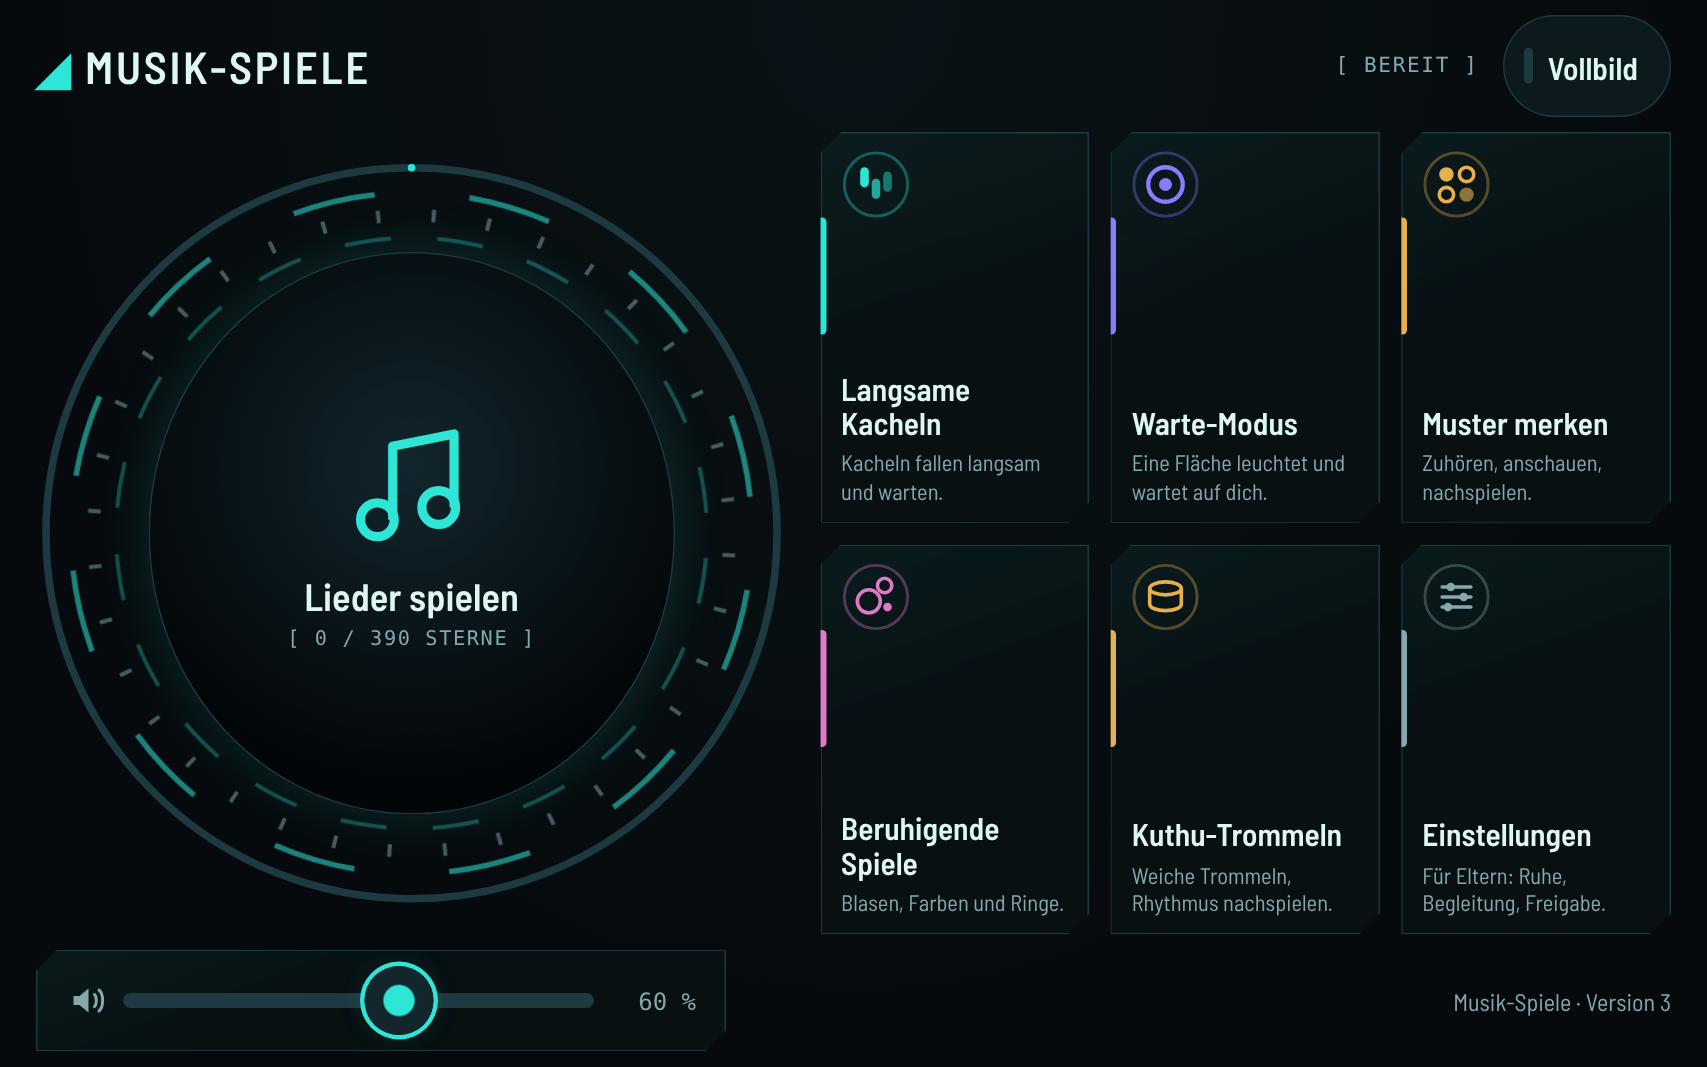
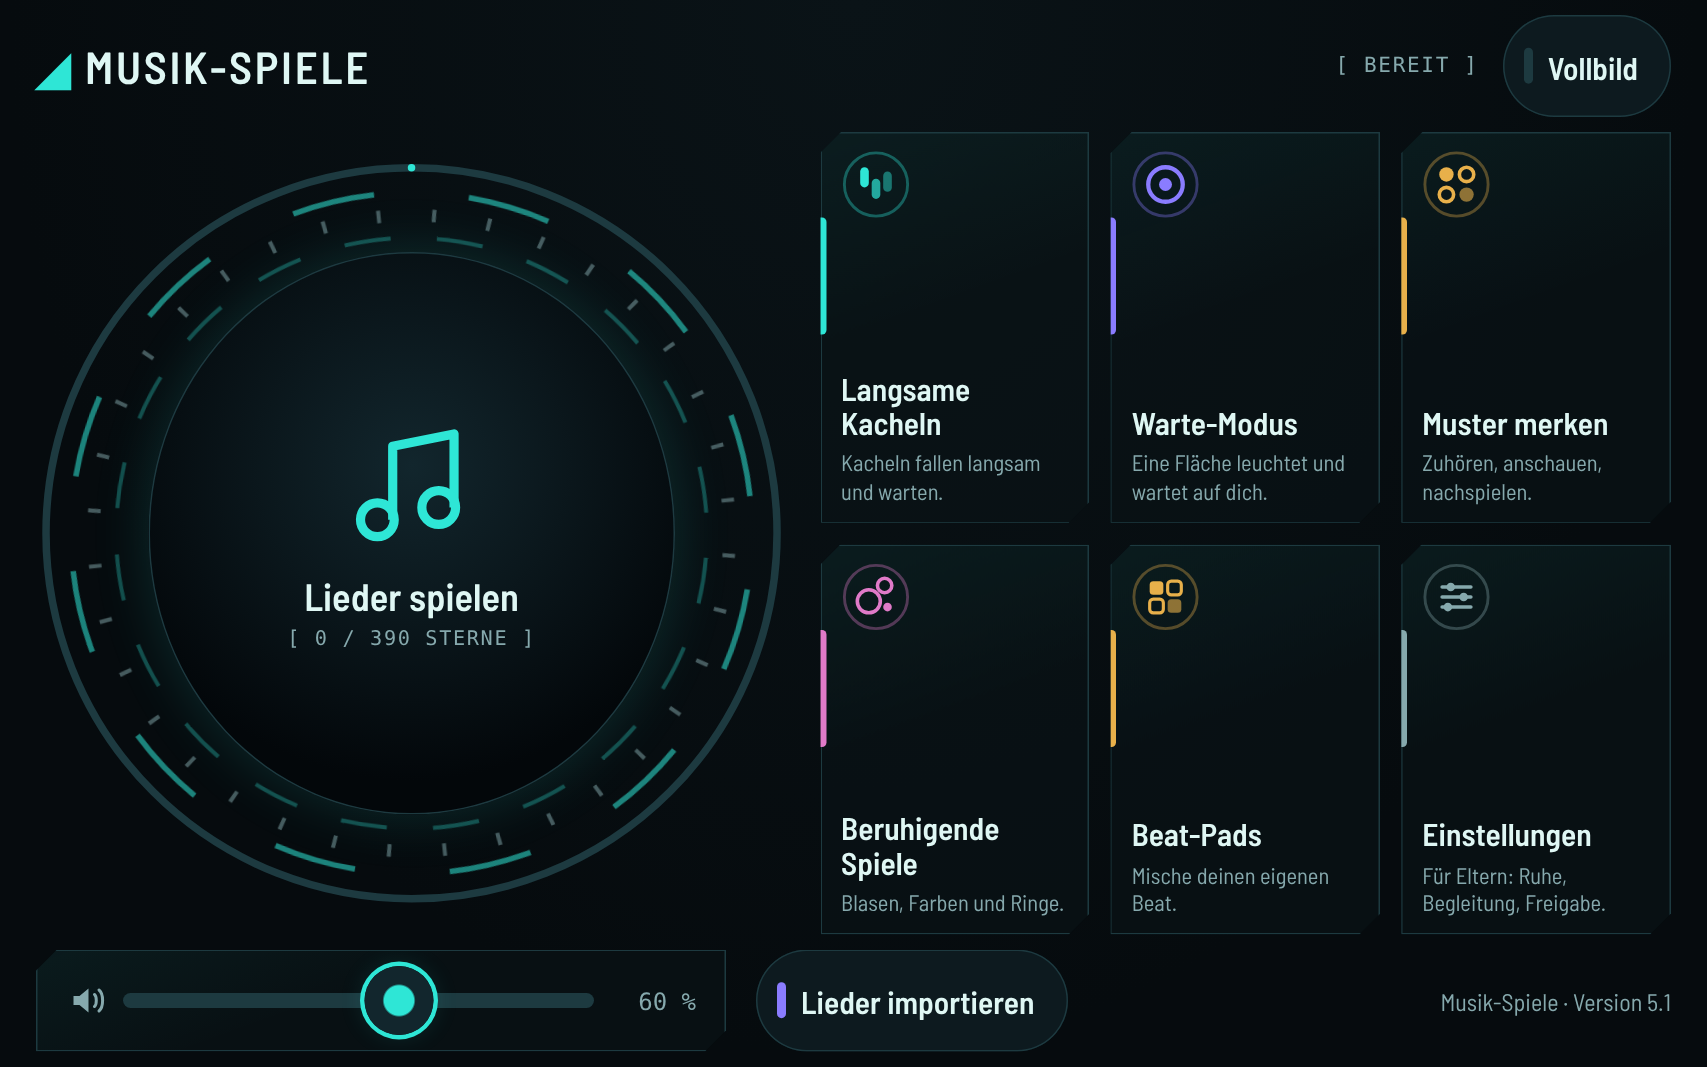
Version 5.1: Beat-Pads mit leiser Sofort-Bestaetigung, neue Screenshots
- Beat-Pads: sofortige leise Bestaetigungsnote (-6 dB unter der lautesten Note des Pads), Stimmen werden beim Ausschalten sauber freigegeben
- Rock/Gitarre: Melodie-Anfang geaendert
- README: Version 5.1, 8 neue Screenshots

Claude-Session: https://claude.ai/code/session_016cLZaLJ4h45vDpU3ckL9uq

diff --git a/app/src/main/assets/index.html b/app/src/main/assets/index.html
@@ -1,7 +1,7 @@
 <!DOCTYPE html>
 <!--
   ================================================================
-   Krishnas Spiele  -  Version 5   @ Joschy  (130 eingebaute Lieder in 7 Kategorien)
+   Krishnas Spiele  -  Version 5.1   @ Joschy  (130 eingebaute Lieder in 7 Kategorien)
    Ruhige Musik-Spiele fuer Krishna (Samsung Galaxy Tab S5e, Android-WebView,
    Querformat, Touch). Eine einzige Datei, keine externen Ressourcen,
    kein Netzzugriff, laeuft komplett offline.
@@ -523,7 +523,7 @@ canvas{display:block;width:100%;height:100%;touch-action:none}
       <div class="slider-row"><span class="sym" data-ico="vol"></span><input type="range" class="vol" min="0" max="100" step="1" aria-label="Lautstärke"><span class="val vol-val"></span></div>
     </div>
     <button class="pille" id="importMenuBtn" type="button" style="--mark:var(--spur2)">Lieder importieren</button>
-    <footer>Krishnas Spiele &middot; Version 5 &middot; gebaut @ Joschy</footer>
+    <footer>Krishnas Spiele &middot; Version 5.1 &middot; gebaut @ Joschy</footer>
   </div>
 </section>
 
@@ -680,7 +680,7 @@ canvas{display:block;width:100%;height:100%;touch-action:none}
 <svg width="0" height="0" style="position:absolute" aria-hidden="true"><symbol id="sternSym" viewBox="0 0 24 24"><path d="M12 2.6l2.85 5.95 6.55.8-4.8 4.5 1.25 6.5L12 17.2l-5.85 3.15 1.25-6.5-4.8-4.5 6.55-.8z" stroke-width="1.6" stroke-linejoin="round"/></symbol></svg>
 
 <script>
-/* Krishnas Spiele @ Joschy - Version 5 */
+/* Krishnas Spiele @ Joschy - Version 5.1 */
 'use strict';
 
 /* LIEDER-START
@@ -3039,11 +3039,12 @@ const Calm = (() => {
    Die Klang-Bausteine laufen mit jedem AudioContext/OfflineAudioContext.
    ================================================================ */
 const BEAT_ATT = 0.015;          /* weichster Einsatz einer Note (s) */
-const BEAT_MAX_STIMMEN = 24;     /* Obergrenze gleichzeitiger Stimmen */
+const BEAT_MAX_STIMMEN = 28;     /* Obergrenze gleichzeitig klingender Stimmen (gemessen: 24 reichte bei 200 % nicht ganz) */
 const BEAT_EIN = 0.03;           /* Einblenden beim Antippen (s) */
 const BEAT_AUS = 0.04;           /* Ausblenden beim zweiten Tipp (s) */
 const BEAT_VORLAUF = 0.1;        /* Look-ahead des Schedulers (s) */
 const BEAT_TAKT_MS = 25;         /* Scheduler-Intervall (ms) */
+const BEAT_BESTAETIGUNG = 0.4;   /* laengere Wartezeit bis zur ersten Note: sofort eine leise Bestaetigungsnote (s) */
 
 /* Rauschen, fest geseedet (gleiches Ergebnis bei jedem Start) */
 const beatRauschPuffer = new WeakMap();
@@ -3119,16 +3120,28 @@ function beatStimme(eng, t, dauer) {
       lg.gain.setValueAtTime(0, t); lg.gain.linearRampToValueAtTime(f * tiefe, t + (verz || 0.2));
       l.connect(lg); lg.connect(o.frequency);
     },
-    los(aus, ziel) {
+    /* sitz: Pad-Sitzung; ihre Stimmen werden beim Ausschalten sofort freigegeben */
+    los(aus, ziel, sitz) {
       aus.connect(ziel);
       eng.knoten += nodes.length; eng.stimmen++;
-      let fertig = false;
+      let fertig = false, frei = false;
       const aufraeumen = () => {
         if (fertig) return; fertig = true;
         nodes.forEach(n => { try { n.disconnect(); } catch (e) {} });
-        eng.knoten -= nodes.length; eng.stimmen--;
+        eng.knoten -= nodes.length;
+        if (!frei) { frei = true; eng.stimmen--; }
+        if (sitz) sitz.stimmen.delete(v);
+        eng.alle.delete(v);
+      };
+      /* Freigabe: der Sitzungs-Regler blendet schon aus; danach Quellen stoppen, Slot sofort frei */
+      v.freigeben = tStop => {
+        if (fertig || frei) return;
+        frei = true; eng.stimmen--; eng.alle.delete(v);
+        srcs.forEach(s => { try { s.stop(Math.max(tStop, c.currentTime)); } catch (e) {} });
       };
       srcs.forEach(s => { s.start(t); s.stop(tEnd + 0.01); });
+      if (sitz) sitz.stimmen.add(v);
+      eng.alle.add(v);
       if (srcs.length) srcs[0].onended = aufraeumen; else aufraeumen();
     }
   };
@@ -3321,10 +3334,10 @@ const BEAT_STILE = [
     { n: 'Laufbass', g: 'bass', k: 'zupfbass', o: -2, b: 'X..F..X.O..F..x.' },
     { n: 'Harmonium', g: 'akkord', k: 'harmonium', o: -1, a: '..X_..X_..X_..X_' },
     { n: 'Bordun', g: 'akkord', k: 'flaeche', o: -1, a: 'X_______________' },
-    { n: 'Nadaswaram', g: 'melodie', k: 'nadaswaram', o: 0, t: '0:4:3 3:5:1 4:4:2 6:2:2 8:3:4 12:2:2 14:1:2 16:0:6 22:1:2 24:2:4 28:4:4' },
+    { n: 'Nadaswaram', g: 'melodie', k: 'nadaswaram', o: 0, t: '0:0:2 2:2:2 4:3:1 5:4:3 8:7:2 10:5:2 12:4:4 16:3:2 18:4:2 20:2:4 24:3:3 27:1:1 28:0:4' },
     { n: 'Flöte', g: 'melodie', k: 'floete', o: 1, t: '0:0:2 2:-1:2 4:0:4 8:2:2 10:1:2 12:0:4 16:-1:2 18:-2:2 20:-3:4 24:-2:2 26:-1:2 28:0:4' },
     { n: 'Glöckchen', g: 'melodie', k: 'glocke', o: 1, t: '0:7:2 3:9:1 6:11:2 10:9:2 12:7:4' },
-    { n: 'Echo', g: 'effekt', k: 'glocke', o: 1, t: '0:4:2 32:2:2', echo: 3, L: 64 }
+    { n: 'Echo', g: 'effekt', k: 'glocke', o: 1, t: '0:4:2 16:2:2:5 32:2:2 48:0:2:5', echo: 3, L: 64 }
   ] },
   { id: 'pop', name: 'Pop', bpm: 108, wurzel: 62, leiter: DUR, prog: [0, 2, 5, 3], form: [0, 2, 4], pads: [
     { n: 'Trommel', g: 'rhythmus', k: 'kick', m: 'X.....X.X.......' },
@@ -3335,10 +3348,10 @@ const BEAT_STILE = [
     { n: 'Laufbass', g: 'bass', k: 'zupfbass', o: -2, b: 'X.X.F.O.X.X.T.F.' },
     { n: 'Akkord', g: 'akkord', k: 'keys', o: -1, a: 'X_..X_..X_..X_..' },
     { n: 'Fläche', g: 'akkord', k: 'flaeche', o: -1, a: 'X_______________' },
-    { n: 'Melodie', g: 'melodie', k: 'zupf', o: 0, t: '0:4:2 2:4:1 3:5:1 4:4:2 6:2:2 8:3:3 11:2:1 12:1:4 16:2:2 18:2:1 19:3:1 20:2:2 22:0:2 24:1:6' },
+    { n: 'Melodie', g: 'melodie', k: 'zupf', o: 0, t: '0:2:2 2:4:2 4:3:1 5:2:1 6:4:2 8:5:3 11:4:1 12:2:4 16:1:2 18:2:1 19:3:1 20:1:2 22:0:2 24:1:6' },
     { n: 'Kette', g: 'melodie', k: 'marimba', o: 0, rel: true, t: '0:0:1 2:2:1 4:4:1 6:7:1 8:4:1 10:2:1 12:4:1 14:2:1' },
-    { n: 'Glocke', g: 'melodie', k: 'glocke', o: 0, t: '0:9:4 8:7:4 16:8:6 24:6:4' },
-    { n: 'Funkeln', g: 'effekt', k: 'glocke', o: 1, t: '4:11:2:5 14:9:2:4 36:12:2:5 46:10:2:4', L: 64 }
+    { n: 'Glocke', g: 'melodie', k: 'glocke', o: 0, t: '0:9:4 8:8:4 16:6:6 24:7:4' },
+    { n: 'Funkeln', g: 'effekt', k: 'glocke', o: 1, t: '4:11:2:5 14:9:2:4 24:10:2:4 36:12:2:5 46:10:2:4 56:9:2:4', L: 64 }
   ] },
   { id: 'elektro', name: 'Elektro', bpm: 120, wurzel: 57, leiter: MOLL, prog: [0, 3, 5, 4], form: [0, 2, 4], pads: [
     { n: 'Trommel', g: 'rhythmus', k: 'kick', P: { f0: 110, f1: 45 }, m: 'X...X...X...X...' },
@@ -3366,18 +3379,18 @@ const BEAT_STILE = [
     { n: 'Klavier', g: 'melodie', k: 'keys', o: 0, t: '0:7:3 3:6:1 4:4:4 10:5:2 12:4:4 16:2:3 19:3:1 20:4:6 28:2:4' },
     { n: 'Vibrafon', g: 'melodie', k: 'vibes', o: 0, rel: true, t: '2:4:2 6:6:2 10:7:2 14:6:2' },
     { n: 'Pfeifen', g: 'melodie', k: 'pfeife', o: 1, t: '0:2:8 8:0:4 12:1:4 16:0:12 28:-3:4' },
-    { n: 'Echo', g: 'effekt', k: 'glocke', o: 1, t: '0:4:2 32:6:2', echo: 3, L: 64 }
+    { n: 'Echo', g: 'effekt', k: 'glocke', o: 1, t: '0:4:2 16:5:2:5 32:6:2 48:4:2:5', echo: 3, L: 64 }
   ] },
   { id: 'rock', name: 'Rock', bpm: 112, wurzel: 52, leiter: MOLL, prog: [0, 6, 5, 6], form: [0, 2, 4], pads: [
     { n: 'Trommel', g: 'rhythmus', k: 'kick', P: { f0: 120, f1: 52 }, m: 'X.......X.X.....' },
     { n: 'Snare', g: 'rhythmus', k: 'snare', m: '....X.......X...' },
     { n: 'Becken', g: 'rhythmus', k: 'becken', m: 'x.o.x.o.x.o.x.o.' },
-    { n: 'Tom', g: 'rhythmus', k: 'tom', P: { f0: 170, f1: 110, dec: 0.3, nf: 700, na: 0.08 }, m: '................' + '............xxXo' },
+    { n: 'Tom', g: 'rhythmus', k: 'tom', P: { f0: 170, f1: 110, dec: 0.3, nf: 700, na: 0.08 }, m: '........o.......' + '....o.......xxXo' },
     { n: 'Tiefbass', g: 'bass', k: 'sub', o: -2, b: 'X_X_X_X_X_X_X_X_' },
     { n: 'Laufbass', g: 'bass', k: 'sagebass', o: -2, b: 'X...X.F.O...X.F.' },
     { n: 'Power', g: 'akkord', k: 'power', o: -1, form: [0, 4, 7], a: 'X_______X___X___' },
     { n: 'Orgel', g: 'akkord', k: 'orgel', o: -1, a: 'X_______________' },
-    { n: 'Gitarre', g: 'melodie', k: 'gitarre', o: 0, t: '0:4:2 2:6:2 4:7:4 8:6:2 10:4:2 12:3:4 16:4:6 22:3:2 24:2:4 28:1:4' },
+    { n: 'Gitarre', g: 'melodie', k: 'gitarre', o: 0, t: '0:4:3 3:6:1 4:2:4 8:6:2 10:4:2 12:3:4 16:4:6 22:3:2 24:2:4 28:1:4' },
     { n: 'Riff', g: 'melodie', k: 'zupf', o: -1, t: '0:0:2 3:2:1 4:4:2 6:3:2 8:2:2 11:0:1 12:1:2 14:-1:2' },
     { n: 'Hoch', g: 'melodie', k: 'quadrat', o: 1, t: '8:2:4 12:1:4 24:4:4 28:2:4' },
     { n: 'Rauschen', g: 'effekt', k: 'wind', o: 0, t: '0:0:64', L: 64 }
@@ -3419,7 +3432,7 @@ const BEAT_STILE = [
     { n: 'Zupfbass', g: 'bass', k: 'zupfbass', o: -2, b: 'X..O..F.X..F..O.' },
     { n: 'Akkord', g: 'akkord', k: 'streicher', o: -1, a: 'X__.X__.X__.X__.' },
     { n: 'Streicher', g: 'akkord', k: 'streicher', o: -1, a: 'X_______________' },
-    { n: 'Horn', g: 'melodie', k: 'horn', o: 0, t: '0:4:6 6:5:2 8:4:4 12:2:4 16:0:8 24:1:4 28:2:4' },
+    { n: 'Horn', g: 'melodie', k: 'horn', o: 0, t: '0:4:6 6:2:2 8:3:4 12:5:4 16:4:8 24:1:4 28:2:4' },
     { n: 'Harfe', g: 'melodie', k: 'harfe', o: 0, rel: true, t: '0:0:1 2:2:1 4:4:1 6:7:1 8:9:1 10:7:1 12:4:1 14:2:1' },
     { n: 'Celesta', g: 'melodie', k: 'glocke', o: 1, t: '0:0:4 4:2:4 8:4:8 16:3:4 20:2:4 24:1:8', L: 32 },
     { n: 'Wind', g: 'effekt', k: 'wind', o: 0, t: '0:0:64', L: 64 }
@@ -3489,18 +3502,20 @@ BEAT_STILE.forEach(st => {
 /* ---------- Der Takt-Motor (Master-Clock + Look-ahead-Scheduler) ----------
    opt.bpm(): aktuelles Tempo, opt.stil(): aktueller Stil, opt.ohneTimer: Scheduler wird von aussen getrieben */
 function BeatEngine(ctx, ziel, opt) {
-  const eng = { ctx, knoten: 0, stimmen: 0, geplantGesamt: 0, uebersprungen: 0, letzterTipp: null };
+  const eng = { ctx, knoten: 0, stimmen: 0, geplantGesamt: 0, uebersprungen: 0, letzterTipp: null, alle: new Set() };
+  /* Stimmen, die zum Zeitpunkt t wirklich klingen (freigegebene zaehlen nicht) */
+  const klingendBei = t => { let n = 0; eng.alle.forEach(v => { if (v.t <= t + 0.002 && v.tEnd > t) n++; }); return n; };
   const aktiv = new Map();   /* Pad-Index -> { g: GainNode } */
   let schritt = 0, naechste = 0, timer = 0, laeuft = false, geplant = [], messPad = -1, messErste = null;
   const dt = () => 60 / Math.max(10, opt.bpm()) / 4;
 
   function note(i, sitz, e, t, lenS) {
     const st = opt.stil(), p = st.pads[i], K = BEAT_KLANG[p.k];
-    if (eng.stimmen >= BEAT_MAX_STIMMEN) { eng.uebersprungen++; return null; }
+    if (klingendBei(t) >= BEAT_MAX_STIMMEN) { eng.uebersprungen++; return null; }
     const dauer = K.dauer ? K.dauer(lenS, p.P) : lenS + (K.rel || 0.1);
     const v = beatStimme(eng, t, dauer);
     const aus = K.bau(v, e.fs, e.vel, p.P || {});
-    v.los(aus, sitz.g);
+    v.los(aus, sitz.g, sitz);
     eng.geplantGesamt++;
     if (i === messPad && (messErste == null || t < messErste)) messErste = t;
     return t;
@@ -3543,7 +3558,7 @@ function BeatEngine(ctx, ziel, opt) {
     const g = ctx.createGain(), pegel = BEAT_PEGEL[opt.stil().pads[i].g] || 0.7;
     g.gain.setValueAtTime(0, jetzt); g.gain.linearRampToValueAtTime(pegel, jetzt + BEAT_EIN);
     g.connect(ziel); eng.knoten++;
-    aktiv.set(i, { g });
+    aktiv.set(i, { g, stimmen: new Set() });
     let erste = null;
     /* schon geplante Schritte im Vorlauf: diesen Pad nachtragen */
     geplant.forEach(x => { if (x.t >= jetzt) { const r = planePad(i, x.n, x.t); if (r != null && (erste == null || r < erste)) erste = r; } });
@@ -3557,10 +3572,28 @@ function BeatEngine(ctx, ziel, opt) {
     });
     tick();
     timerAn();
-    const t1 = (typeof performance !== 'undefined' ? performance.now() : 0);
     if (messErste != null && (erste == null || messErste < erste)) erste = messErste;
     messPad = -1;
-    eng.letzterTipp = { pad: i, rechenMs: t1 - t0, einblendVerzugMs: 0, ersteNoteMs: erste == null ? null : Math.max(0, (erste - jetzt) * 1000) };
+    /* naechste Muster-Note (rechnerisch) */
+    let naechsteSchritte = Infinity, vorher = null, vorherAbst = Infinity;
+    p.bahn.ev.forEach(e => {
+      const s0 = ((e.s % L) + L) % L, vor = ((s0 - inLoop) % L + L) % L, zur = ((inLoop - s0) % L + L) % L;
+      if (vor < naechsteSchritte) naechsteSchritte = vor;
+      if (zur < vorherAbst) { vorherAbst = zur; vorher = e; }
+    });
+    const naechsteMs = naechsteSchritte * d * 1000;
+    /* Bestaetigung: dauert es bis zur naechsten Note laenger als 0,4 s, sofort EINE kurze, leise Note
+       (-6 dB unter der LAUTESTEN Note des Pads, damit sie nicht von einer leisen Echo-Note abhaengt) */
+    const lautVel = p.bahn.ev.reduce((m, e) => Math.max(m, e.vel), 0);
+    const musterMs = Math.min(naechsteMs, erste == null ? Infinity : Math.max(0, (erste - jetzt) * 1000));
+    let bestaetigt = false;
+    if ((erste == null || erste - jetzt > BEAT_BESTAETIGUNG) && naechsteMs > BEAT_BESTAETIGUNG * 1000 && vorher) {
+      const r = note(i, aktiv.get(i), { fs: vorher.fs, vel: lautVel * 0.5 }, jetzt + 0.005, Math.min(vorher.len * d, 0.3));
+      if (r != null) { bestaetigt = true; erste = r; }
+    }
+    const t1 = (typeof performance !== 'undefined' ? performance.now() : 0);
+    eng.letzterTipp = { pad: i, rechenMs: t1 - t0, einblendVerzugMs: 0, ersteNoteMs: erste == null ? naechsteMs : Math.min(naechsteMs, Math.max(0, (erste - jetzt) * 1000)),
+      bestaetigung: bestaetigt, naechsteMusterMs: musterMs };
     return true;
   };
   eng.aus = i => {
@@ -3572,6 +3605,7 @@ function BeatEngine(ctx, ziel, opt) {
       else { g.gain.cancelScheduledValues(jetzt); g.gain.setValueAtTime(g.gain.value, jetzt); }
       g.gain.linearRampToValueAtTime(0, jetzt + BEAT_AUS);
     } catch (e) {}
+    s.stimmen.forEach(v => v.freigeben(jetzt + BEAT_AUS + 0.01));
     const weg = () => { try { g.disconnect(); } catch (e) {} eng.knoten--; };
     if (opt.ohneTimer) eng.spaeter = (eng.spaeter || []).concat([{ t: jetzt + BEAT_AUS + 0.05, fn: weg }]);
     else setTimeout(weg, (BEAT_AUS + 0.15) * 1000);

diff --git a/README.md b/README.md
@@ -12,20 +12,24 @@ Für Android-Tablets und -Handys ab Android 8.
 
 ## Screenshots
 
-Die Bilder stammen aus Version 3 und zeigen die App im Querformat auf einem Tablet.
+Die Bilder stammen aus Version 5.1 und zeigen die App im Querformat auf einem Tablet.
 
 <table>
   <tr>
-    <td width="50%" align="center"><img src="docs/screenshots/01-menue.png" width="100%" alt="Hauptmenü der App mit den sechs Spielmodi"><br><sub>Hauptmenü</sub></td>
-    <td width="50%" align="center"><img src="docs/screenshots/02-liederauswahl.png" width="100%" alt="Liederauswahl mit Kategorie-Reitern und Liedliste"><br><sub>Liederauswahl mit Kategorien</sub></td>
+    <td width="50%" align="center"><img src="docs/screenshots/01-menue.png" width="100%" alt="Hauptmenü mit Lieder spielen, vier ruhigen Spielmodi, Beat-Pads und Einstellungen"><br><sub>Hauptmenü</sub></td>
+    <td width="50%" align="center"><img src="docs/screenshots/02-liederauswahl.png" width="100%" alt="Liederauswahl mit Kategorie-Reitern, Stufenfilter und Liedliste"><br><sub>Liederauswahl mit Kategorien</sub></td>
   </tr>
   <tr>
     <td width="50%" align="center"><img src="docs/screenshots/03-lied-spielen.png" width="100%" alt="Ein Lied wird gespielt, Kacheln erscheinen im Takt"><br><sub>Lied spielen (Kacheln im Takt, sofort antippbar)</sub></td>
-    <td width="50%" align="center"><img src="docs/screenshots/04-belohnung.png" width="100%" alt="Ruhiger Belohnungs-Bildschirm nach einem gespielten Lied"><br><sub>Ruhiger Belohnungs-Bildschirm</sub></td>
+    <td width="50%" align="center"><img src="docs/screenshots/04-beat-pads-pop.png" width="100%" alt="Beat-Pads im Stil Pop mit einigen aktiven Pads"><br><sub>Beat-Pads: Stil Pop</sub></td>
   </tr>
   <tr>
-    <td width="50%" align="center"><img src="docs/screenshots/05-ruhige-spiele.png" width="100%" alt="Beruhigende Spiele mit Blasen und sanften Farben"><br><sub>Beruhigende Spiele</sub></td>
-    <td width="50%" align="center"><img src="docs/screenshots/06-einstellungen.png" width="100%" alt="Einstellungen mit Ruhe-Modus und Auswahl des Farbthemas"><br><sub>Einstellungen: Ruhe-Modus und Farbthema</sub></td>
+    <td width="50%" align="center"><img src="docs/screenshots/05-beat-pads-rock.png" width="100%" alt="Beat-Pads im Stil Rock mit einigen aktiven Pads"><br><sub>Beat-Pads: Stil Rock</sub></td>
+    <td width="50%" align="center"><img src="docs/screenshots/06-beat-pads-ruhig.png" width="100%" alt="Beat-Pads im Stil Ruhig (Lo-Fi) mit einigen aktiven Pads"><br><sub>Beat-Pads: Stil Ruhig (Lo-Fi)</sub></td>
+  </tr>
+  <tr>
+    <td width="50%" align="center"><img src="docs/screenshots/07-einstellungen.png" width="100%" alt="Einstellungen für Eltern"><br><sub>Einstellungen (für Eltern)</sub></td>
+    <td width="50%" align="center"><img src="docs/screenshots/08-meine-lieder.png" width="100%" alt="Kategorie Meine Lieder, noch leer, mit Knopf zum Importieren"><br><sub>„Meine Lieder“: eigene MIDI-Dateien importieren</sub></td>
   </tr>
 </table>
 
@@ -35,7 +39,7 @@ Die App startet eine lokale `index.html` im Vollbild (Querformat, Display bleibt
 
 ## Spiele
 
-Stand: **Version 5**. Sechs Modi, alle bewusst reizarm gestaltet (ruhige Farben, sanfte Klänge, kein Zeitdruck, keine blinkenden Effekte):
+Stand: **Version 5.1** (Beat-Pads geben beim Antippen sofort eine leise Bestätigung, Stimmen werden beim Ausschalten sauber freigegeben). Sechs Modi, alle bewusst reizarm gestaltet (ruhige Farben, sanfte Klänge, kein Zeitdruck, keine blinkenden Effekte):
 
 - **Lieder spielen** – 130 Lieder Ton für Ton nachspielen, sortiert in 8 Reitern (7 Kategorien plus „Alle“), in 3 Stufen von ganz leicht bis etwas anspruchsvoller
 - **Langsame Kacheln** – Kacheln fallen langsam herunter
